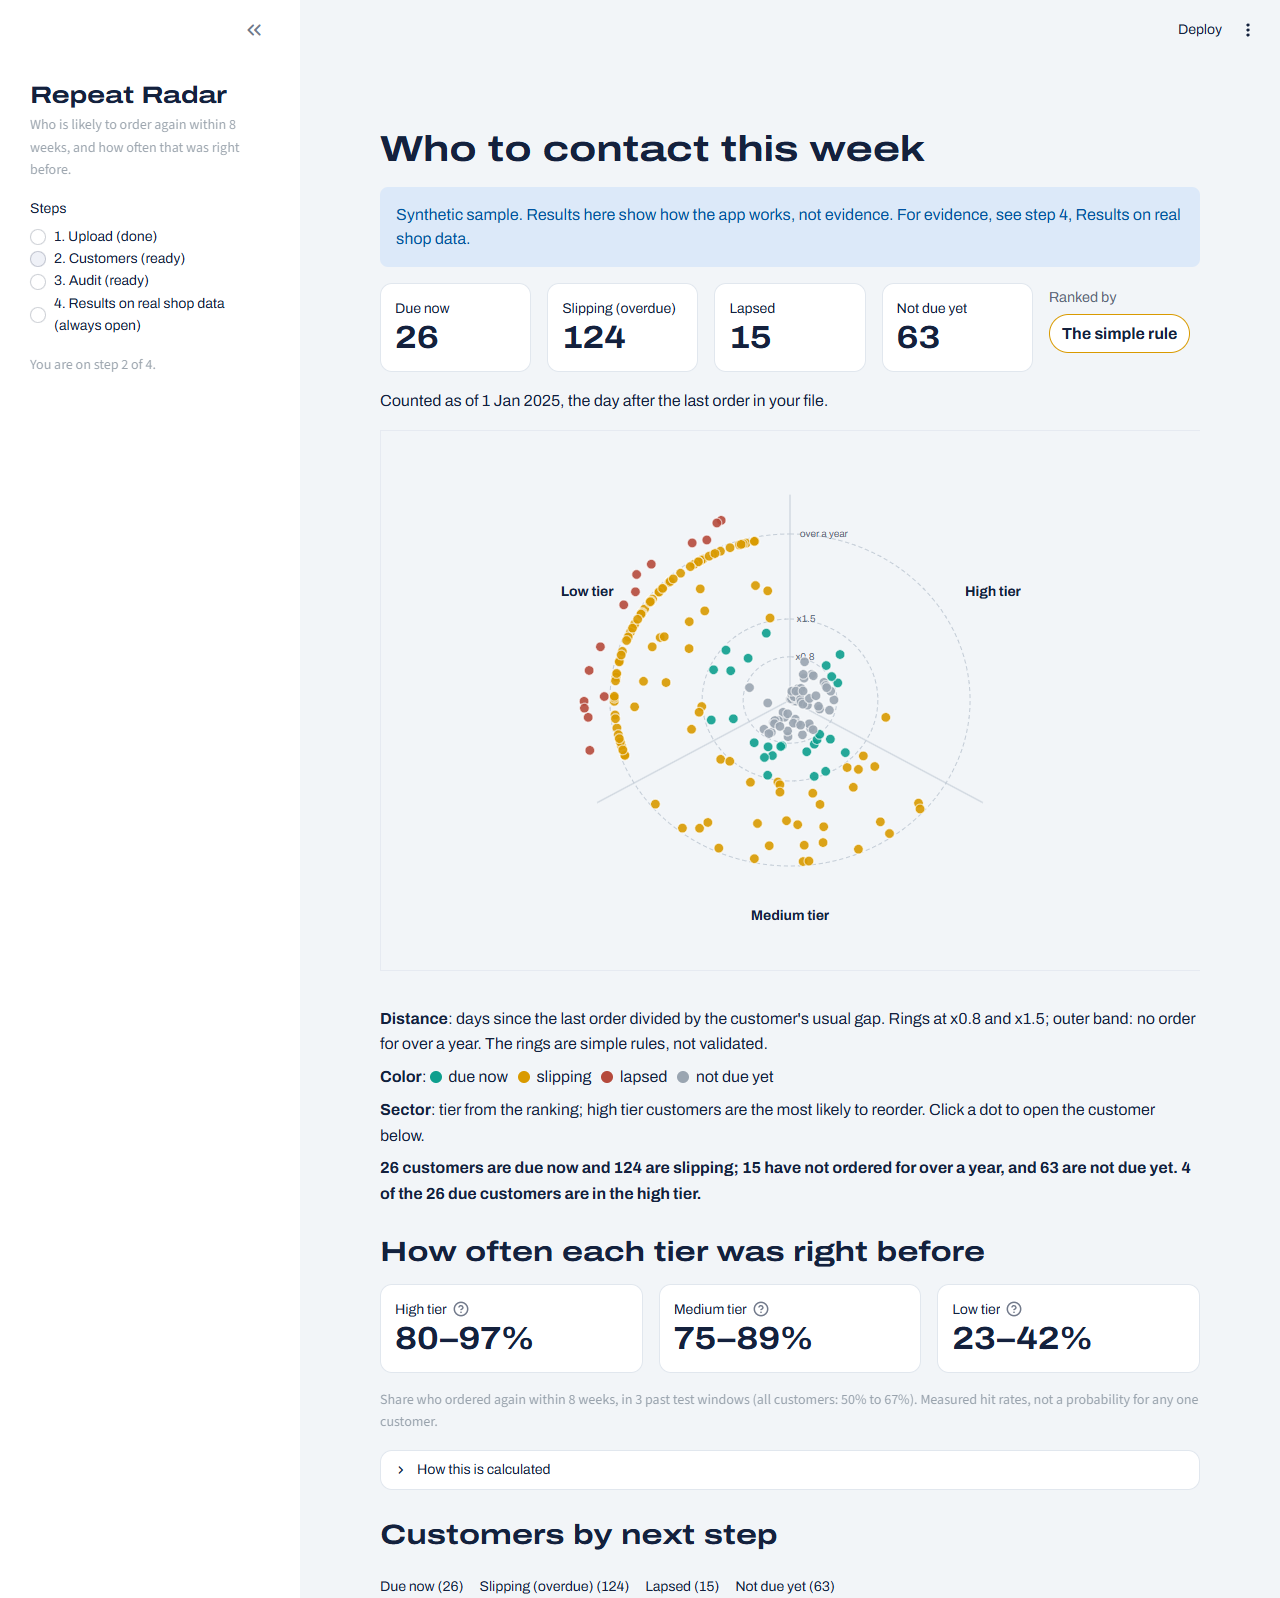
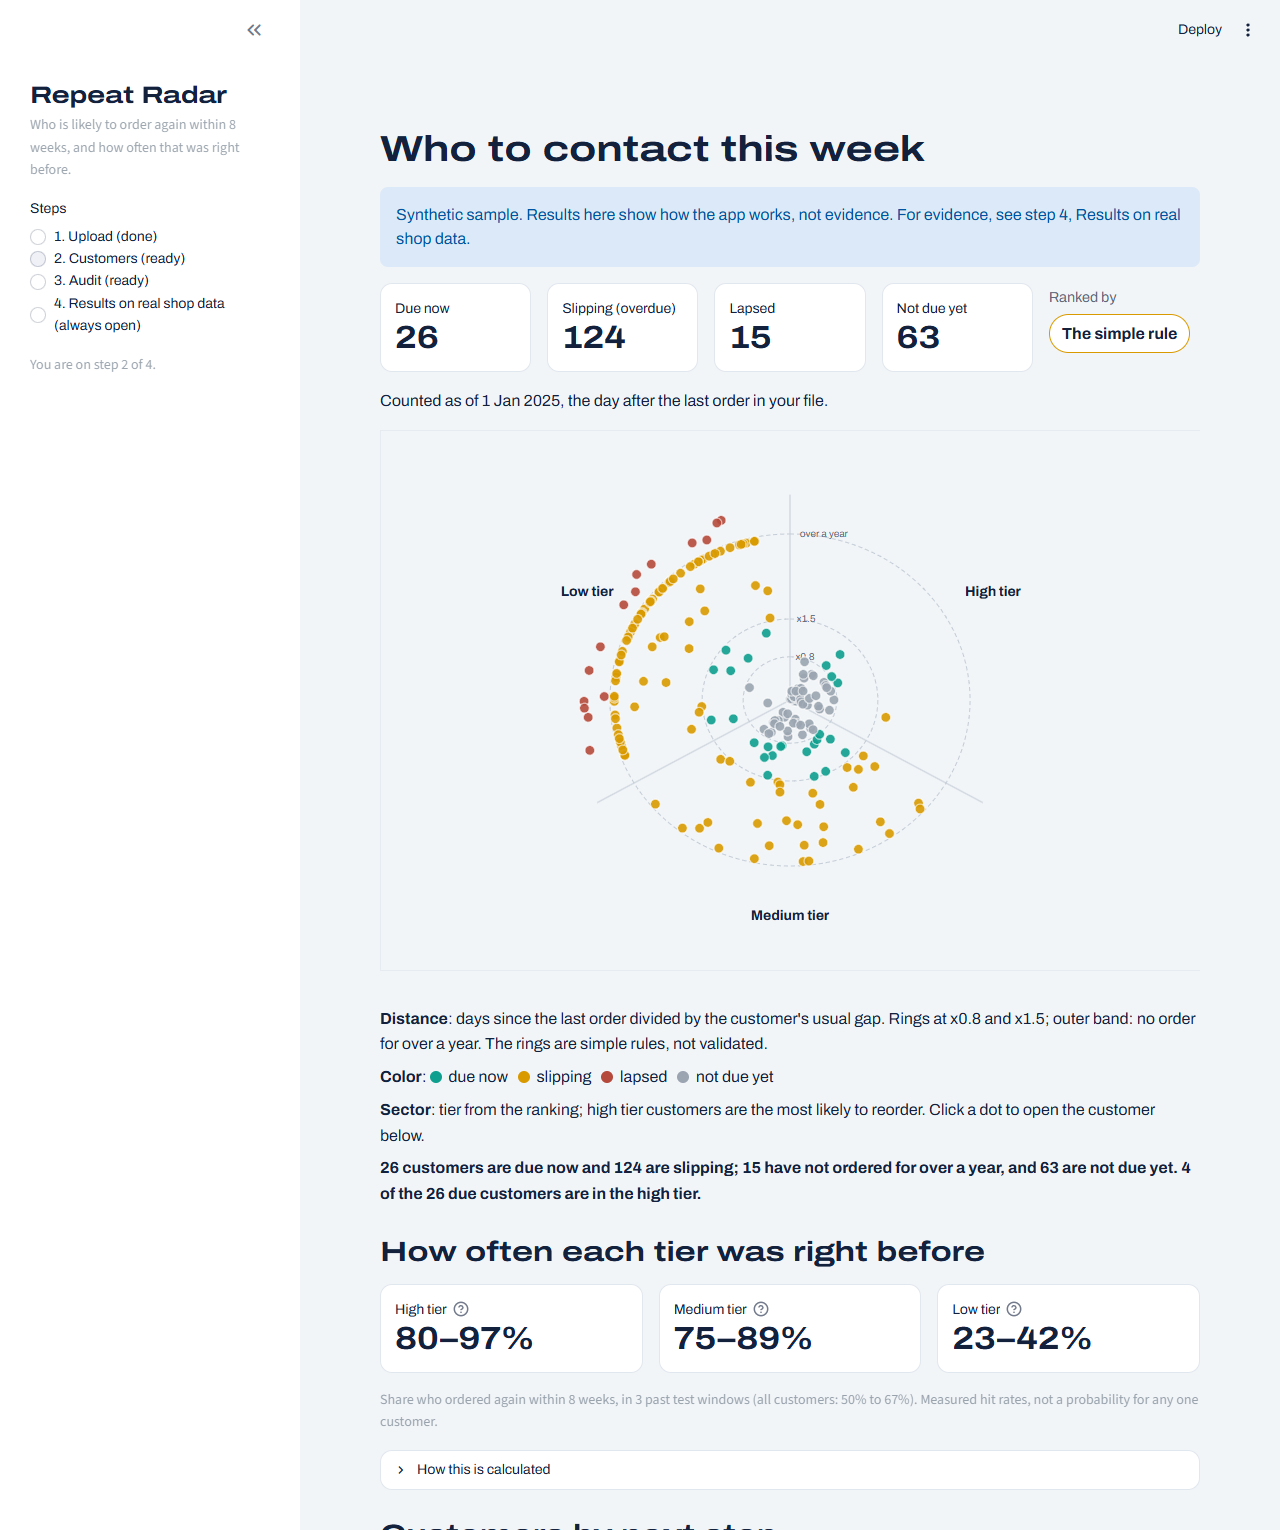
Audit chart labels show counts (86% / 30 of 35); refusal wording in PRD, README and screen matches what rule 2 counts

diff --git a/app/charts.py b/app/charts.py
@@ -124,38 +124,48 @@ def shown_percents(m, r):
     return a, b, d
 
 
-def window_bars(windows, height=260):
+def top20_size(n):
+    """How many customers are in the top 20% of n: the same cut as engine.top_k_hit and the high tier."""
+    return max(1, int(n * 0.2))
+
+
+def window_bars(windows, height=280):
     """Grouped bars per test window: top-20% hit rate of the model and of the simple rule; base rate as a dashed
     line across the group. Drawn on a numeric x axis (window index) so the dashed line can span the group.
-    windows needs origin, top20_model, top20_recency, base_rate."""
+    windows needs origin, n, top20_model, top20_recency, base_rate. Each label: the rate over the count, as in
+    '86%' / '(30 of 35)'."""
     w = windows.reset_index(drop=True)
     labels = [window_label(o) for o in w['origin']]
     rows = []
     for i, r in w.iterrows():
         a, b, d = shown_percents(r['top20_model'], r['top20_recency'])
-        rows.append({'method': 'Model', 'value': r['top20_model'], 'label': f'{a:.{d}f}%', 'x': i - 0.41,
-                     'x2': i - 0.02, 'mid': i - 0.215})
-        rows.append({'method': 'Simple rule', 'value': r['top20_recency'], 'label': f'{b:.{d}f}%', 'x': i + 0.02,
-                     'x2': i + 0.41, 'mid': i + 0.215})
+        k = top20_size(r['n'])
+        for method, rate, shown, x in (('Model', r['top20_model'], a, i - 0.41),
+                                       ('Simple rule', r['top20_recency'], b, i + 0.02)):
+            label, of = f'{shown:.{d}f}%', f'({round(rate * k)} of {k})'
+            rows.append({'method': method, 'value': rate, 'label': label, 'of': of, 'text': f'{label}\n{of}',
+                         'x': x, 'x2': x + 0.39, 'mid': x + 0.195})
     long = pd.DataFrame(rows)
     base = pd.DataFrame({'x': [i - 0.47 for i in range(len(w))], 'x2': [i + 0.47 for i in range(len(w))],
                          'base_rate': w['base_rate'], 'window': labels})
     axis = alt.Axis(values=list(range(len(w))), labelExpr=f"{labels}[datum.value]", title=None, grid=False,
                     labelFontSize=12, ticks=False, domain=False)
     xs = alt.Scale(domain=[-0.6, len(w) - 0.4])
-    yv = alt.Y('value:Q', title='Share of the top 20% who ordered again', scale=alt.Scale(domain=[0, 1]),
-               axis=alt.Axis(format='%', tickCount=5))
+    yv = alt.Y('value:Q', title='Share of the top 20% who ordered again', scale=alt.Scale(domain=[0, 1.12]),
+               axis=alt.Axis(format='%', values=[0, 0.2, 0.4, 0.6, 0.8, 1]))      # headroom for 2-line labels
     color = alt.Color('method:N', scale=alt.Scale(domain=list(METHOD_COLORS), range=list(METHOD_COLORS.values())),
                       legend=alt.Legend(title=None, orient='top'))
     bars = alt.Chart(long).mark_bar(cornerRadiusTopLeft=3, cornerRadiusTopRight=3).encode(
         alt.X('x:Q', scale=xs, axis=axis), x2='x2:Q', y=yv, y2=alt.datum(0), color=color,
-        tooltip=[alt.Tooltip('method:N', title='Ranking'), alt.Tooltip('label:N', title='Top 20%')])
-    text = alt.Chart(long).mark_text(dy=-7, fontSize=11, color=INK).encode(   # labels rounded in Python, as in
-        alt.X('mid:Q', scale=xs), yv, text='label:N')                          # window_takeaway
+        tooltip=[alt.Tooltip('method:N', title='Ranking'), alt.Tooltip('label:N', title='Top 20%'),
+                 alt.Tooltip('of:N', title='Ordered again')])
+    text = [alt.Chart(long).mark_text(dy=dy, fontSize=size, color=INK, baseline='bottom').encode(   # rounded in
+                alt.X('mid:Q', scale=xs), yv, text=f'{field}:N')                                   # Python, as in
+            for field, dy, size in (('label', -17, 11), ('of', -4, 10))]                           # window_takeaway
     rule = alt.Chart(base).mark_rule(color=INK, strokeWidth=2, strokeDash=[6, 4]).encode(
         alt.X('x:Q', scale=xs), x2='x2:Q', y='base_rate:Q',
         tooltip=[alt.Tooltip('window:N', title='Window'), alt.Tooltip('base_rate:Q', title='Base rate', format='.0%')])
-    return alt.layer(bars, rule, text).properties(height=height).configure(font=FONT, background='transparent')
+    return alt.layer(bars, rule, *text).properties(height=height).configure(font=FONT, background='transparent')
 
 
 def window_takeaway(windows, ranker):

diff --git a/tests/test_charts.py b/tests/test_charts.py
@@ -36,7 +36,7 @@ def test_radar_radius_and_sector():
 def test_takeaways_follow_the_numbers():
     assert radar_takeaway({'due': 26, 'overdue': 124, 'lapsed': 15, 'not_due': 63}, 4).startswith(
         '26 customers are due now and 124 are slipping')
-    w = pd.DataFrame({'origin': [T('2024-11-05'), T('2024-08-06'), T('2024-05-07')],
+    w = pd.DataFrame({'origin': [T('2024-11-05'), T('2024-08-06'), T('2024-05-07')], 'n': [50, 35, 150],
                       'top20_model': [0.9, 0.857, 0.967], 'top20_recency': [0.8, 0.857, 0.967],
                       'base_rate': [0.5, 0.56, 0.67]})
     assert window_takeaway(w, 'recency') == ('The model and the simple rule tied in 2 of 3 windows, and the model '
@@ -51,19 +51,27 @@ def test_takeaways_follow_the_numbers():
     holdout_chart(h).to_dict()
 
 
-def _bar_labels(chart):
-    """{(window index, method): label} as drawn on the chart."""
+def _bar_rows(chart):
+    """{(window index, method): data row} of the bar labels as drawn on the chart."""
     rows = [r for d in chart.to_dict()['datasets'].values() for r in d if 'label' in r]
-    return {(round(r['mid']), r['method']): r['label'] for r in rows}
+    return {(round(r['mid']), r['method']): r for r in rows}
+
+
+def _bar_labels(chart):
+    return {key: r['label'] for key, r in _bar_rows(chart).items()}
 
 
 def test_bar_labels_and_sentence_agree():
     o = [T('2024-11-05'), T('2024-08-06'), T('2024-05-07')]
-    tied = pd.DataFrame({'origin': o, 'top20_model': [37 / 41, 6 / 7, 29 / 30],      # the Indonesian sample
-                         'top20_recency': [33 / 41, 6 / 7, 29 / 30], 'base_rate': [0.5, 0.56, 0.67]})
-    labels = _bar_labels(window_bars(tied))
-    assert [labels[i, 'Model'] for i in range(3)] == ['90%', '86%', '97%']
-    assert [labels[i, 'Simple rule'] for i in range(3)] == ['80%', '86%', '97%']     # ties show the same label
+    tied = pd.DataFrame({'origin': o, 'n': [209, 179, 151],                          # the Indonesian sample
+                         'top20_model': [37 / 41, 30 / 35, 29 / 30], 'top20_recency': [33 / 41, 30 / 35, 29 / 30],
+                         'base_rate': [0.5, 0.56, 0.67]})
+    rows = _bar_rows(window_bars(tied))
+    shown = {key: r['text'].split('\n') for key, r in rows.items()}       # two lines: the rate over the count
+    assert [shown[i, 'Model'] for i in range(3)] == [['90%', '(37 of 41)'], ['86%', '(30 of 35)'],
+                                                     ['97%', '(29 of 30)']]
+    assert [shown[i, 'Simple rule'] for i in range(3)] == [['80%', '(33 of 41)'], ['86%', '(30 of 35)'],
+                                                           ['97%', '(29 of 30)']]     # ties: the same label
     assert window_takeaway(tied, 'recency').startswith('The model and the simple rule tied in 2 of 3 windows')
     # 0.8571 vs 0.8566 both round to 86%: not a tie in the logic, so the labels must differ (one decimal)
     close = tied.assign(top20_model=[0.8571, 0.865, 0.9], top20_recency=[0.8566, 0.774, 0.8])
@@ -78,3 +86,13 @@ def test_one_date_format_on_screen():
     assert day_label('2011-04-05') == '5 Apr 2011' and day_label(T('2011-04-15 10:00')) == '15 Apr 2011'
     assert show_dates('2024-08-06 (model 86%); invoice NT-101126 on 2024-12-26') == \
         '6 Aug 2024 (model 86%); invoice NT-101126 on 26 Dec 2024'
+
+
+def test_top20_size_is_the_cut_the_audit_uses():
+    import numpy as np
+    from app.charts import top20_size
+    from app.engine import top_k_hit
+    for n in (7, 35, 151, 179, 209):
+        y = np.zeros(n, dtype=int)
+        y[0] = 1                                    # one positive, ranked first: the audit's hit rate is 1 / k
+        assert round(1 / top_k_hit(y, -np.arange(n, dtype=float))) == top20_size(n)

diff --git a/app/screens/audit.py b/app/screens/audit.py
@@ -34,7 +34,8 @@ def screen_audit():
     n1 = len(r['not_scored'])
     st.write(f"1. Fewer than 2 orders: {'triggered' if n1 else 'not triggered'}"
              + (f', {n1:,} customers not scored.' if n1 else '.'))
-    st.write('2. Too little history: not triggered'
+    st.write('2. Too little history (each test window needs 50 or more customers with 2+ earlier orders, and at least '
+             '2 windows are needed): not triggered'
              + (f" (windows dropped: {plain('; '.join(a['skipped']))})." if a['skipped'] else '.'))
     st.write('3. The model must beat the simple rule in every window: '
              + ('triggered, using the simple rule' if r['ranker'] == 'recency' else 'not triggered')

diff --git a/brain/01_PRD.md b/brain/01_PRD.md
@@ -22,7 +22,7 @@ Owner or sales lead of a small wholesaler who sells to repeat business customers
 3. **Audit.** On the user's own history, per test window: AUC and top-20% hit rate of the model vs a simple recency rule ("most recent buyers first"), plus the base rate.
 4. **Refusals.** The app refuses, and says why, in three cases:
    - A customer with fewer than 2 orders is not scored.
-   - If the file is too short to form at least 2 backtest windows (about 371 days with the 8-week horizon), or a window has fewer than 50 customers or no variation in outcomes, nothing is scored. The app reports "insufficient data" and names the windows it could not form.
+   - A backtest window is dropped if it has fewer than 50 test customers (customers with 2 or more orders before the window starts; each of them gets a label, ordered again within 8 weeks or not), if everyone or no one reordered in it or in one of its 3 training windows, or if the file does not reach back far enough to train it. If fewer than 2 windows remain (a file shorter than about 371 days always ends here), nothing is scored. The app reports "insufficient data" and names the windows it dropped.
    - If the model does not beat the recency rule on top-20% hit rate in **every** window, the app says so and ranks by the recency rule instead, with the recency rule's own measured tier hit rates.
 
 ## What makes it different from a generic CRM or a chat-with-data tool

diff --git a/README.md b/README.md
@@ -77,7 +77,7 @@ Status on 2026-10-05. Numbers are from our own scripts, on one public dataset (U
   - a locked holdout of 20% of customers, run once: 82% / 65% / 70% vs 59% / 51% / 63%.
 - The app shows each tier's measured hit rate instead of a probability, and refuses to score when evidence is weak:
   - customers with fewer than 2 orders;
-  - files with too little history;
+  - files with too little history: fewer than 2 test windows that each have at least 50 customers with 2 or more earlier orders;
   - if the model does not beat the simple rule, it says so and uses the rule.
 - Column mapping by rules works on 3 differently shaped exports (UCI and two synthetic ones).
 - Text dates are read safely: day-first and month-first are detected, conflicting orders and 2-digit years are refused, and unreadable rows are counted.
